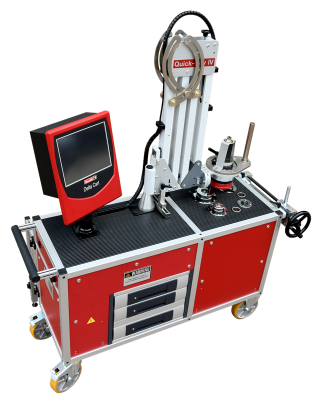
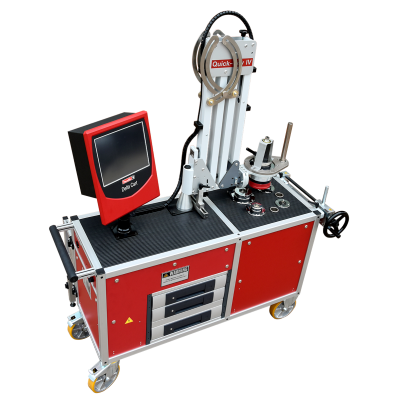
✨ Display delta cart in warehouse

Changed region(s): [[0.0308, 0.0, 0.9538, 0.99]]

diff --git a/src/components/sections/Demonstration.svelte b/src/components/sections/Demonstration.svelte
@@ -31,6 +31,9 @@
 	let zoom = 1
 	let isFullyVisible = false
 
+	$: deltaCart = $json(
+		"section.demonstration.deltaCart"
+	) as TranslationObject["section"]["demonstration"]["deltaCart"]
 	$: chapters = $json(
 		"section.demonstration.chapters"
 	) as TranslationObject["section"]["demonstration"]["chapters"]
@@ -235,6 +238,21 @@
 					width={factoryController.width}
 					height={factoryController.height}
 				/>
+
+				{#if isFullyVisible && deltaCart}
+					<FactoryItemCard
+						item={{
+							label: "",
+							description: "",
+							tool: "deltaCart",
+							position: {
+								left: 45,
+								top: 16,
+							},
+						}}
+						size={324}
+					/>
+				{/if}
 
 				{#each chapters as _, chapter (chapter)}
 					{#each getChapterItems(chapter) as item, itemIndex (1000 * chapter + itemIndex)}
